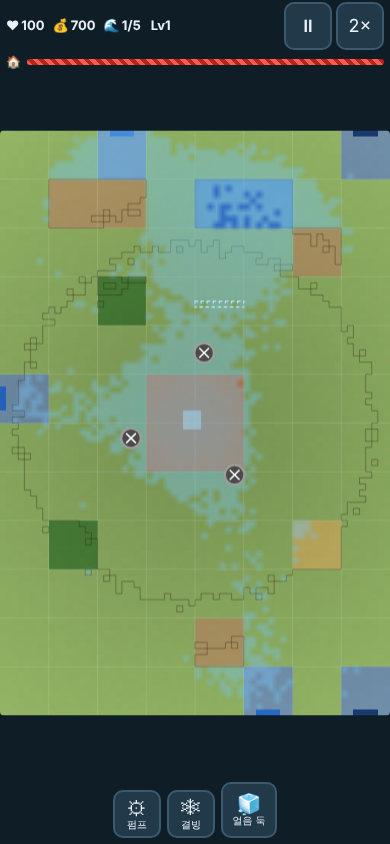
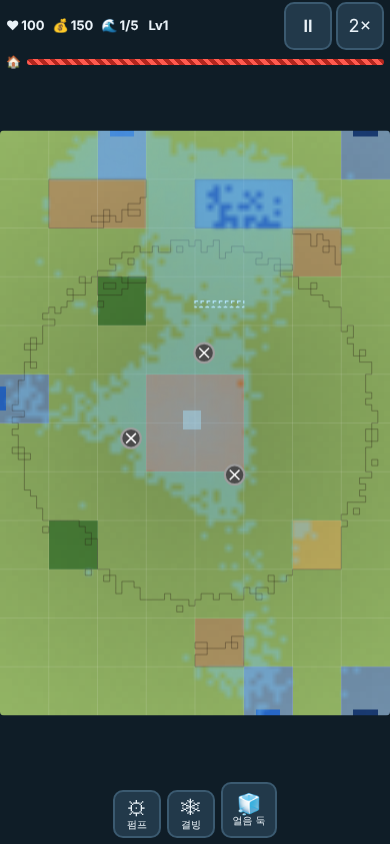
wip: story 004 skill ice dam + levee cost 6, start cash 150 (glacier bots still failing)
Story: production/epics/physics-td/story-004-regions-maps-waves-tutorial.md
Design: docs/GAME_DESIGN_V2.md §3.0 rows for levee cost, start cash, skill ice dam.

Claude-Session: https://claude.ai/code/session_01CzaZN2zCyDgkMkXoL1qNA3

diff --git a/src/sim/ice.ts b/src/sim/ice.ts
@@ -1,6 +1,6 @@
 import type { SimGrid, SimState } from '../core/types.ts';
 import {
-  CELLS, GRID_H, GRID_W, ICE_COLLAPSE_RATIO, ICE_MELT_PER_TICK, ICE_WARN_SEC, TICKS_PER_SEC,
+  CELLS, FLAG_SKILL_ICE, GRID_H, GRID_W, ICE_COLLAPSE_RATIO, ICE_MELT_PER_TICK, ICE_WARN_SEC, TICKS_PER_SEC,
 } from './constants.ts';
 
 /**
@@ -16,25 +16,46 @@ export function freezeCells(g: SimGrid, cells: ArrayLike<number>, thickness: num
 }
 
 /**
- * Tick 4: melt every ice cell by 0.0008, then collapse ice that is too thin for the
+ * Build a skill ice dam: at least `thickness` ice that melts `meltPerTick` and never takes
+ * part in the glacier-lake collapse (marked with `FLAG_SKILL_ICE` until it has melted).
+ * @example freezeSkillIce(grid, line.cells, 0.4, 0.002 / 30);
+ */
+export function freezeSkillIce(g: SimGrid, cells: ArrayLike<number>, thickness: number, meltPerTick: number): void {
+  for (let k = 0; k < cells.length; k++) {
+    const c = cells[k];
+    if (g.ice[c] < thickness) g.ice[c] = thickness;
+    g.flags[c] |= FLAG_SKILL_ICE;
+    g.iceMelt[c] = meltPerTick;
+  }
+}
+
+/**
+ * Tick 4: melt every ice cell by its `iceMelt` (0.0008 for map ice), then collapse ice that is too thin for the
  * water it holds. An ice cell fails (ice -> 0 at once) when
  * `ice < ICE_COLLAPSE_RATIO * max_neighbour(ground + water - own ground)`. A failure
  * unzips the dam: every ice cell next to a collapsed one that still holds back water
  * collapses too (flood fill within the same tick), so a melting glacier-lake dam
- * releases its whole reservoir in one burst instead of a trickle. Collapsed cells
+ * releases its whole reservoir in one burst instead of a trickle. Skill-built ice
+ * (`FLAG_SKILL_ICE`) only melts: it neither collapses nor unzips, and turns back into
+ * ordinary cells once melted. Collapsed cells
  * are listed in `state.fx.iceCollapsed`. When the lake dam (`state.lakeDam`) would
  * fail within `ICE_WARN_SEC` at the current melt rate and water level,
  * `state.fx.iceWarning` is raised once per run (the lake has one dam).
  * @example updateIce(state);
  */
 export function updateIce(state: SimState): void {
-  const { ice, h, w } = state.grid;
+  const { ice, iceMelt, flags, h, w } = state.grid;
   const failed = state.fx.iceCollapsed;
   for (let i = 0; i < CELLS; i++) {
     if (ice[i] <= 0) continue;
-    const t = ice[i] - ICE_MELT_PER_TICK;
+    const t = ice[i] - iceMelt[i];
     ice[i] = t > 0 ? t : 0;
-    if (ice[i] > 0 && ice[i] < ICE_COLLAPSE_RATIO * heldBack(h, w, i)) failed.push(i);
+    if (flags[i] & FLAG_SKILL_ICE) {
+      if (ice[i] === 0) {
+        flags[i] &= ~FLAG_SKILL_ICE;
+        iceMelt[i] = ICE_MELT_PER_TICK;
+      }
+    } else if (ice[i] > 0 && ice[i] < ICE_COLLAPSE_RATIO * heldBack(h, w, i)) failed.push(i);
   }
   // Collapse after the scan so the scan result does not depend on cell order.
   for (let k = 0; k < failed.length; k++) ice[failed[k]] = 0;
@@ -79,8 +100,8 @@ function heldBack(h: Float32Array, w: Float64Array, i: number): number {
 
 /** Collapse ice cell i (queued for further unzipping) if it is holding back water. */
 function unzip(state: SimState, i: number): void {
-  const { ice, h, w } = state.grid;
-  if (ice[i] > 0 && heldBack(h, w, i) > 0) {
+  const { ice, flags, h, w } = state.grid;
+  if (ice[i] > 0 && (flags[i] & FLAG_SKILL_ICE) === 0 && heldBack(h, w, i) > 0) {
     ice[i] = 0;
     state.fx.iceCollapsed.push(i);
   }

diff --git a/src/rules/effects.ts b/src/rules/effects.ts
@@ -5,7 +5,7 @@
  */
 import type { LeveeLine, SimMods, SimState } from '../core/types.ts';
 import { FLAG_BASE_CORE, FLAG_INLET, GRID_H, GRID_W, LEVEE_START_DURABILITY, TICKS_PER_SEC, ZONE } from '../sim/constants.ts';
-import { freezeCells } from '../sim/ice.ts';
+import { freezeSkillIce } from '../sim/ice.ts';
 import { buildLevee, placeTempWall } from '../sim/structures.ts';
 import { zoneCells, zoneType } from '../input/hit.ts';
 import { arr, fail, num, obj, oneOf, str } from './validate.ts';
@@ -14,8 +14,11 @@ import type { Obj } from './validate.ts';
 /** Sim modifier keys an op may change. */
 export const MOD_KEYS = ['wallDurabilityMul', 'absorbMul'] as const satisfies readonly (keyof SimMods)[];
 
-/** Levee that gets +topUp (capped) once all lines of the zone exist; `material: "ice"` makes an ice dam. */
-export interface BuildLeveeOp { op: 'buildLevee'; height: number; topUp: number; cap: number; material: 'wall' | 'ice' }
+/**
+ * Levee that gets +topUp (capped) once all lines of the zone exist; `material: "ice"` makes an
+ * ice dam that melts `melt` per second (required for ice) and is exempt from the lake collapse.
+ */
+export interface BuildLeveeOp { op: 'buildLevee'; height: number; topUp: number; cap: number; material: 'wall' | 'ice'; melt: number }
 /** Temporary wall on a swipe path; `ttl` in seconds. */
 export interface TempWallPathOp { op: 'tempWallPath'; height: number; ttl: number; maxCells: number; width: number; exclusionRadius: number }
 export interface RepairAllOp { op: 'repairAll'; addHeight: number }
@@ -70,7 +73,8 @@ export function parseOp(raw: unknown, where: string): Op {
   switch (name) {
     case 'buildLevee': {
       const material = o.material === undefined ? 'wall' : oneOf(o, 'material', w, ['wall', 'ice']);
-      return { op: name, height: num(o, 'height', w, 0), topUp: num(o, 'topUp', w, 0), cap: num(o, 'cap', w, 0), material };
+      const melt = material === 'ice' ? num(o, 'melt', w, 0) : 0;
+      return { op: name, height: num(o, 'height', w, 0), topUp: num(o, 'topUp', w, 0), cap: num(o, 'cap', w, 0), material, melt };
     }
     case 'tempWallPath':
       return {
@@ -162,7 +166,7 @@ function buildLeveeOp(state: SimState, env: EffectEnv, op: BuildLeveeOp, zone: n
   if (open.length > 0) {
     const line = pickLine(state, env, open);
     if (op.material === 'ice') {
-      freezeCells(g, line.cells, op.height);
+      freezeSkillIce(g, line.cells, op.height, op.melt / TICKS_PER_SEC);
     } else {
       buildLevee(g, line.cells.filter((c) => g.wall[c] < op.height), op.height);
       for (const c of line.cells) if (g.wall[c] >= op.height) g.dur[c] = LEVEE_START_DURABILITY;
@@ -171,7 +175,11 @@ function buildLeveeOp(state: SimState, env: EffectEnv, op: BuildLeveeOp, zone: n
   }
   let low = lines[0];
   for (const l of lines) if (lineMin(level, l) < lineMin(level, low)) low = l;
-  for (const c of low.cells) level[c] = Math.max(level[c], Math.min(op.cap, level[c] + op.topUp));
+  if (op.material === 'ice') {
+    for (const c of low.cells) freezeSkillIce(g, [c], Math.min(op.cap, level[c] + op.topUp), op.melt / TICKS_PER_SEC);
+  } else {
+    for (const c of low.cells) level[c] = Math.max(level[c], Math.min(op.cap, level[c] + op.topUp));
+  }
 }
 
 /**

diff --git a/src/core/types.ts b/src/core/types.ts
@@ -9,6 +9,8 @@ export interface SimGrid {
   w: Float64Array;
   /** Ice thickness (adds to the water head, so ice acts as a wall). */
   ice: Float32Array;
+  /** Ice melt per tick of each cell (`ICE_MELT_PER_TICK` except skill-built ice dams). */
+  iceMelt: Float32Array;
   /** Ground height. */
   h: Float32Array;
   /** Permanent levee height. */
@@ -27,7 +29,7 @@ export interface SimGrid {
   gate: Float32Array;
   /** Forest / wetland health 0..1. */
   health: Float32Array;
-  /** Bit flags: 1 outlet, 2 inlet, 4 base core, 8 glacier-lake dam. */
+  /** Bit flags: 1 outlet, 2 inlet, 4 base core, 8 glacier-lake dam, 16 skill-built ice. */
   flags: Uint8Array;
   /** Consecutive ticks with depth >= forest flood depth. */
   floodTicks: Uint16Array;

diff --git a/src/sim/grid.ts b/src/sim/grid.ts
@@ -1,5 +1,5 @@
 import type { SimGrid } from '../core/types.ts';
-import { CELLS, NO_ZONE } from './constants.ts';
+import { CELLS, ICE_MELT_PER_TICK, NO_ZONE } from './constants.ts';
 
 /**
  * Allocate an empty grid (all zero). Every per-tick scratch array is allocated here,
@@ -12,6 +12,7 @@ export function createGrid(): SimGrid {
     gate: new Float32Array(CELLS),
     w: new Float64Array(CELLS),
     ice: new Float32Array(CELLS),
+    iceMelt: new Float32Array(CELLS).fill(ICE_MELT_PER_TICK),
     h: new Float32Array(CELLS),
     wall: new Float32Array(CELLS),
     tmp: new Float32Array(CELLS),

diff --git a/src/sim/constants.ts b/src/sim/constants.ts
@@ -60,6 +60,8 @@ export const FLAG_INLET = 2;
 export const FLAG_BASE_CORE = 4;
 /** Glacier-lake dam ice cell (warned before it collapses). */
 export const FLAG_LAKE_DAM = 8;
+/** Skill-built ice dam cell: own melt rate (`SimGrid.iceMelt`), exempt from the glacier-lake collapse. */
+export const FLAG_SKILL_ICE = 16;
 /** `SimGrid.zoneId` value for cells outside every authored zone. */
 export const NO_ZONE = 255;
 

diff --git a/docs/GAME_DESIGN_V2.md b/docs/GAME_DESIGN_V2.md
@@ -96,6 +96,9 @@
 | 제방 마모율 | 초당 0.012 × 압력 (v2.3 — 0.02에서 하향. 0.02에서는 링 + 펌프 1대가 W5 패배, Story 001 실측) |
 | 빙하호 붕괴 | 얼음 두께 < 수심 × 1.25이면 그 얼음 셀 붕괴, 같은 tick에 물을 막고 있는 이웃 얼음도 연쇄 붕괴 (v2.3, Story 001) |
 | 빙하호 기본 깊이 | 0.3 (방어 없으면 HP 약 27 손실, 제방 링 또는 펌프로 무피해 가능). 맵별 조정은 Story 004 |
+| 제방 쌓기 비용 | 제방선 1줄당 $6 (v2.4, Story 004 — $20에서는 시작 자금 150으로 안쪽 링 12줄을 못 쌓아 혼합 전략도 패배). `data/skills/build-levee.json` |
+| 시작 자금 | 150 (변경 없음, 맵 데이터 `start.cash`) |
+| 얼음 둑(스킬, 빙하 지역 제방) | 높이 0.3/0.4/0.5, 초당 0.002 융해(0.3이 약 150초 ≈ 3웨이브), **빙하호 붕괴 연쇄에서 제외** — 붕괴는 맵의 빙하호 댐만 (v2.4, Story 004). 셀 표시 `FLAG_SKILL_ICE`, 융해율 `iceMelt` |
 | 물 배열 정밀도 | 수심 `w`만 64비트(32비트는 1만 tick에 1e-3 질량 오차), 나머지는 32비트 |
 | 유입 기준 `I1` | 120 (둑마을 기준, 맵별 봇 보정) |
 | 웨이브 길이 | 40초(W1) → 70초(W5), +7.5초씩 |
